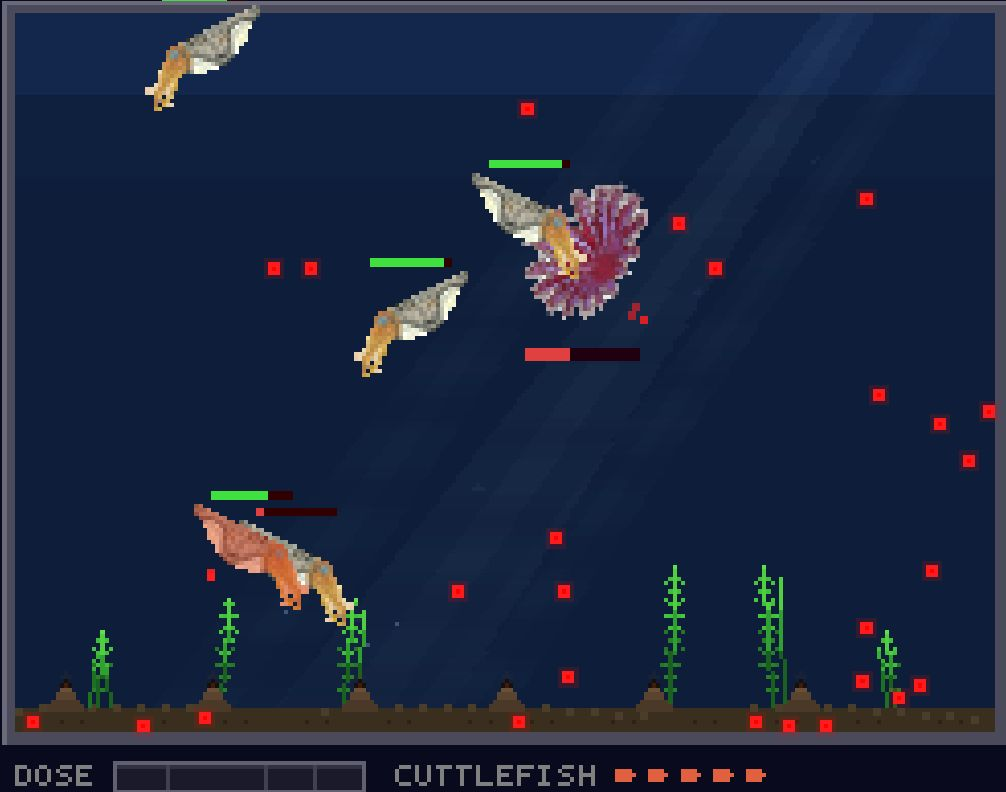
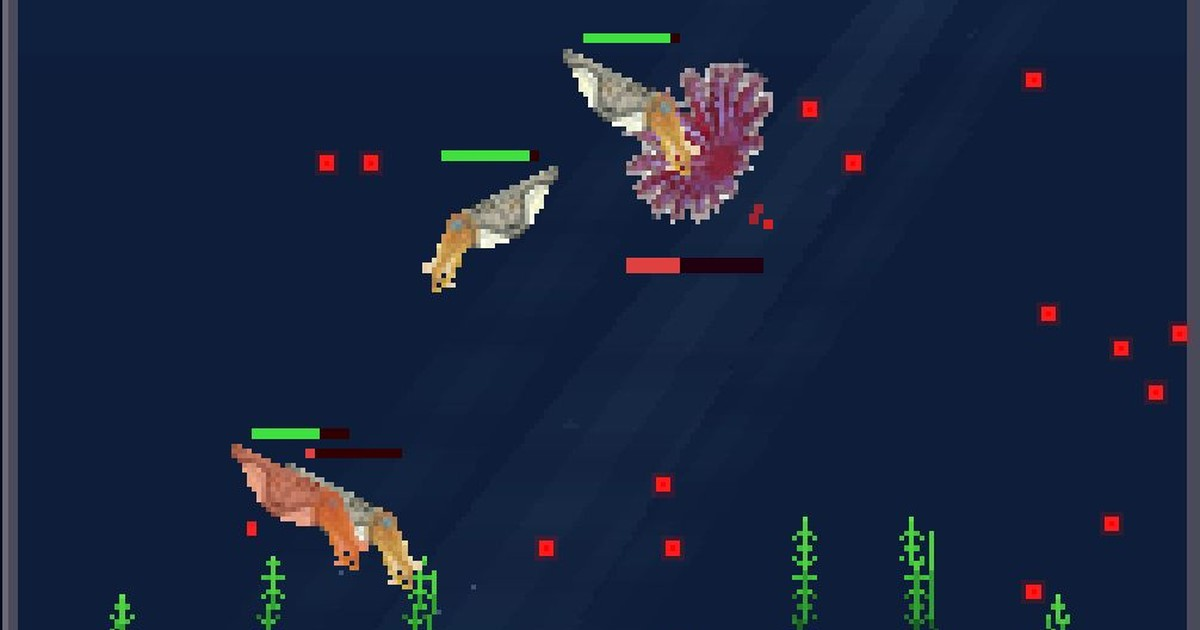
Crop OG preview image to 1200x630 for WhatsApp compatibility
WhatsApp requires ~1.91:1 aspect ratio for link previews. Center-cropped
the original 1006x792 image and scaled to 1200x630.

diff --git a/index.html b/index.html
@@ -10,8 +10,8 @@
     <meta property="og:title" content="ADEPT Game - Cuttlefish Bio">
     <meta property="og:description" content="Outsmart the Crown of Thorns! An educational retro arcade game about cancer drug delivery.">
     <meta property="og:image" content="https://genemachines.github.io/adept-game/og-preview.jpg">
-    <meta property="og:image:width" content="1006">
-    <meta property="og:image:height" content="792">
+    <meta property="og:image:width" content="1200">
+    <meta property="og:image:height" content="630">
     <meta property="og:url" content="https://genemachines.github.io/adept-game/">
     <meta property="og:type" content="website">
 
